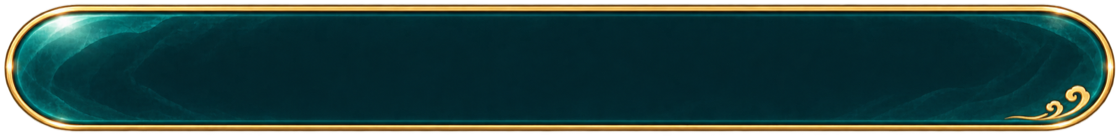
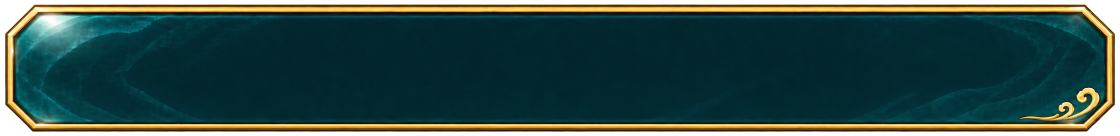
Refine gameplay objective and boss panel frames and spacing

Changed region(s): [[0.0, 0.0294, 1.0, 0.9706], [0.8125, 0.7059, 0.8438, 0.7353]]

diff --git a/client/src/components/GameplayChrome.tsx b/client/src/components/GameplayChrome.tsx
@@ -164,18 +164,18 @@ const styles = StyleSheet.create({
   movesCenter: { ...StyleSheet.absoluteFill, alignItems: 'center', justifyContent: 'center' },
   info: { flexShrink: 0, paddingTop: 8, paddingBottom: 8, gap: 8 },
   compactInfo: { paddingTop: 2, paddingBottom: 4 },
-  objective: { width: '100%', minWidth: 0, paddingHorizontal: 14, paddingVertical: 6, alignItems: 'stretch' },
+  objective: { width: '100%', minWidth: 0, paddingHorizontal: 20, paddingVertical: 6, alignItems: 'stretch' },
   collectionPanel: { height: 48 },
-  compactCollectionPanel: { height: 44, paddingVertical: 4, paddingHorizontal: 12 },
+  compactCollectionPanel: { height: 44, paddingVertical: 4, paddingHorizontal: 18 },
   enemyPanel: { height: 60 },
-  compactEnemyPanel: { height: 52, paddingHorizontal: 12 },
+  compactEnemyPanel: { height: 52, paddingHorizontal: 18 },
   goalsRow: { flexDirection: 'row', alignItems: 'center', flex: 1 },
   goalRow: { flexDirection: 'row', gap: 3, alignItems: 'center', justifyContent: 'flex-start', width: '33.333333%', minWidth: 0 },
   enemyRow: { flexDirection: 'row', gap: 8, alignItems: 'center', flex: 1 },
   goalIcon: { width: 28, height: 28, flexShrink: 0 },
   goalIconFrame: { width: 28, height: 28, flexShrink: 0, alignItems: 'center', justifyContent: 'center' },
   goalText: { flex: 1, minWidth: 0 },
-  enemyText: { gap: 6 },
+  enemyText: { gap: 4, paddingRight: 16 },
   avatar: { width: 48, height: 48, borderRadius: 24, borderWidth: 1, borderColor: colors.gold, backgroundColor: colors.inkDeep, overflow: 'hidden', flexShrink: 0 },
   compactAvatar: { width: 40, height: 40, borderRadius: 20 },
   // Frame the existing beast's head, centered around 60% x / 29% y.

diff --git a/client/src/components/__tests__/GameplayChrome.test.ts b/client/src/components/__tests__/GameplayChrome.test.ts
@@ -84,8 +84,10 @@ describe('gameplay header and objective rows', () => {
 
   it.each([false, true])('uses shorter panels without shrinking avatars or collection icons (compact=%s)', compact => {
     act(() => { renderer = create(info([enemy('Boss'), collect('collect')], {}, compact)); });
-    expect(StyleSheet.flatten(view('game-objective-panel').props.style)).toMatchObject({ height: compact ? 44 : 48, paddingVertical: compact ? 4 : 6 });
-    expect(StyleSheet.flatten(view('game-enemy-panel').props.style)).toMatchObject({ height: compact ? 52 : 60, paddingVertical: 6 });
+    expect(StyleSheet.flatten(view('game-objective-panel').props.style)).toMatchObject({ height: compact ? 44 : 48, paddingVertical: compact ? 4 : 6, paddingHorizontal: compact ? 18 : 20 });
+    expect(StyleSheet.flatten(view('game-enemy-panel').props.style)).toMatchObject({ height: compact ? 52 : 60, paddingVertical: 6, paddingHorizontal: compact ? 18 : 20 });
+    const health = renderer.root.findByType(GameplayProgressBar);
+    expect(StyleSheet.flatten(health.parent!.props.style)).toMatchObject({ gap: 4, paddingRight: 16 });
     expect(StyleSheet.flatten(view('game-enemy-avatar').props.style)).toMatchObject({ width: compact ? 40 : 48, height: compact ? 40 : 48 });
     expect(StyleSheet.flatten(view('objective-icon-collect').props.style)).toMatchObject({ width: 28, height: 28 });
   });

diff --git a/client/src/components/GameplayProgressBar.tsx b/client/src/components/GameplayProgressBar.tsx
@@ -21,7 +21,7 @@ export function GameplayProgressBar({ value, max, tone, accessibilityLabel, anim
   const health = tone === 'health';
   return (
     <View ref={viewRef} collapsable={false} onLayout={onLayout} testID={`game-${tone}-bar`} accessible accessibilityRole="progressbar" accessibilityLabel={accessibilityLabel}
-      accessibilityValue={{ min: 0, max: limit, now: current }} style={[styles.track, { height: health ? 18 : 12 }]}>
+      accessibilityValue={{ min: 0, max: limit, now: current }} style={[styles.track, { height: health ? 16 : 12 }]}>
       <View testID={`game-${tone}-track`} onLayout={event => setTrackWidth(event.nativeEvent.layout.width)} style={styles.inner}>
         <Animated.View testID={`game-${tone}-fill`} style={[styles.fill, fillStyle]}>
           <LinearGradient colors={health ? ['#942f35', '#e35646', '#ff9674'] : ['#0b717a', '#49c8e5', '#b7f4e7']}

diff --git a/client/src/components/__tests__/GameplayProgressBar.test.ts b/client/src/components/__tests__/GameplayProgressBar.test.ts
@@ -35,7 +35,7 @@ describe('native gameplay progress bars', () => {
 
   it.each(['health', 'qi'] as const)('renders %s as a clipped pill with a native gradient', tone => {
     mount({ tone });
-    expect(StyleSheet.flatten(view(`game-${tone}-bar`).props.style)).toMatchObject({ height: tone === 'health' ? 18 : 12, borderRadius: 999, overflow: 'hidden' });
+    expect(StyleSheet.flatten(view(`game-${tone}-bar`).props.style)).toMatchObject({ height: tone === 'health' ? 16 : 12, borderRadius: 999, overflow: 'hidden' });
     const gradient = renderer.root.findAllByType(LinearGradient).find(node => node.props.colors)!;
     expect(gradient.props.colors).toHaveLength(3);
     expect(view(`game-${tone}-bar`).props.accessibilityRole).toBe('progressbar');

diff --git a/assets/ui-review/gameplay-panels-chamfer/README.md b/assets/ui-review/gameplay-panels-chamfer/README.md
@@ -1,0 +1,25 @@
+# Chamfered gameplay panels
+
+Collection and boss backgrounds now use straight sides and four chamfered corners, following the Back button's silhouette. The slim gold rim, jade material, upper-left lighting and bottom-right cloud ornament are retained.
+
+## Runtime assets and prompts
+
+- Collection: [runtime PNG](../../../client/app-assets/ui/gameplay_collection_panel.png), [normalized source](../../ui-source/runtime/gameplay-collection-panel.png), [ImageGen prompts](../../ui-source/runtime/gameplay-collection-panel.prompt.txt), 1120 × 136 px.
+- Boss: [runtime PNG](../../../client/app-assets/ui/gameplay_boss_panel.png), [normalized source](../../ui-source/runtime/gameplay-boss-panel.png), [ImageGen prompts](../../ui-source/runtime/gameplay-boss-panel.prompt.txt), 1120 × 154 px.
+
+Both edits use Codex built-in ImageGen, followed by alpha-preserving crop/resize preparation. Four pixels of exterior padding match the previous sprites. End caps scale uniformly; the quiet middle alone changes its horizontal scale. Preparation places slice boundaries on whole output pixels to avoid partially transparent seams. The normalized source and runtime PNGs are identical.
+
+## Visual review
+
+`preview.png` shows both panels with representative content at a 390 px viewport. The six `panels-{320,360,390}-{normal,compact}.png` sheets cover one, two and three objectives, boss only, and boss with objectives, at 3× pixel density.
+
+These are offline composition previews using the actual `gameplayPanelSlices` function and existing icon assets. Content is positioned from the current gameplay styles; text and HP rendering are illustrative. They are not native app screenshots. Simulator services were unavailable in this environment.
+
+The follow-up spacing adjustment uses horizontal padding of 20/18 dp in normal/compact mode for both panels. The boss name and HP area has an additional 16 dp right inset, its vertical gap is 4 dp, and the HP track is 16 dp high. Collection height remains 48/44 dp; boss height remains 60/52 dp; width remains 100%. Artwork, avatar/icon sizes, font sizes, qi height, APIs, types and gameplay behavior remain unchanged.
+
+## Validation
+
+- 6 existing Jest suites passed, 85 tests: GameplayObjectivePanel, gameplayPanelSlices, GameplayChrome, GameplayProgressBar, GameLayout and GameplayScreen.
+- `validation.json` records exact runtime dimensions, transparent corners, fully opaque middle, matching source/runtime bytes, and slice geometry at panel widths 296/336/366 dp and heights 44/48/52/60 dp.
+- `preparation.json` records the generated-image crop and final export dimensions.
+- `layout-validation.json` records padding, HP dimensions, right clearance, vertical containment and representative HP label fit at all three viewport widths in both modes.
